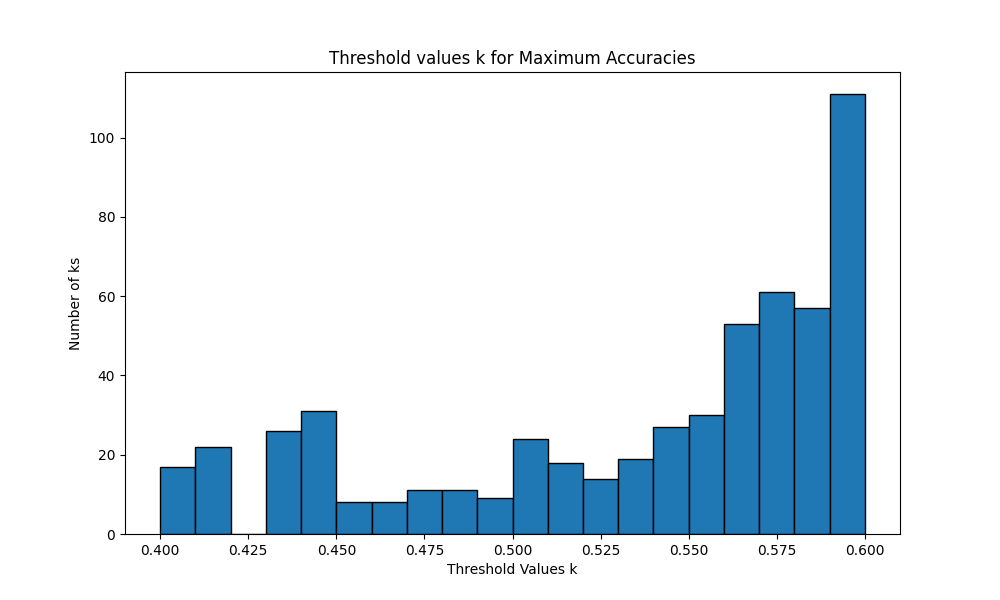
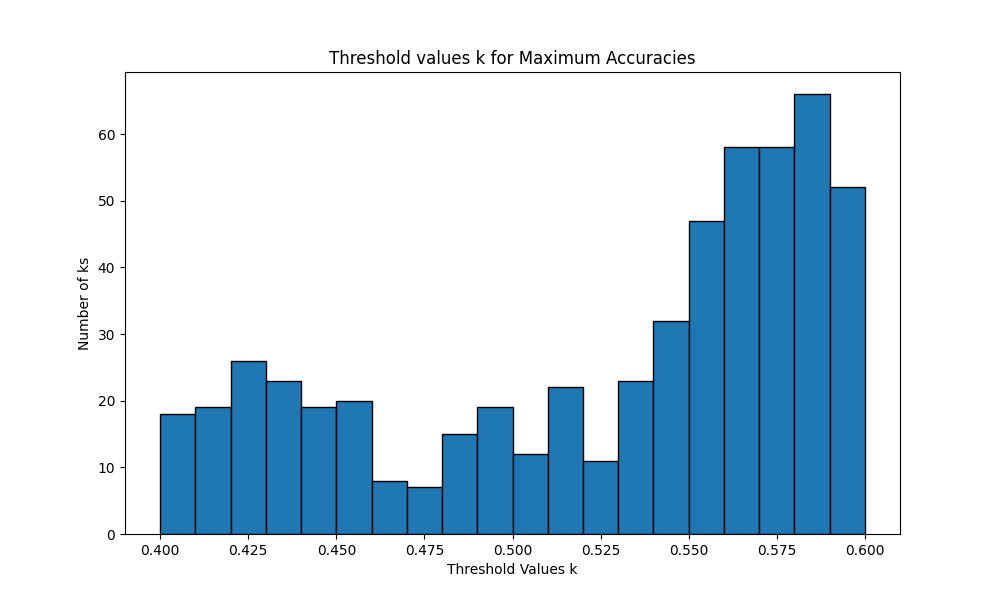
1

diff --git a/final_project/p3.py b/final_project/p3.py
@@ -39,7 +39,7 @@ max_accuracies = []
 optimal_ks = []
 optimal_k = 0.5
 max_accuracy = 0
-accuracies_for_k = {k: [] for k in np.linspace(0, 1, 101)}
+accuracies_for_k = {k: [] for k in np.linspace(0, 1, 100)}
 
 for _ in range(1000):
     X_train, X_test, y_train, y_test = train_test_split(X, y, test_size=0.2)
@@ -62,7 +62,7 @@ for _ in range(1000):
     optimal_k = 0.5
     max_accuracy = 0
 
-    for k in np.linspace(0, 1, 101):
+    for k in np.linspace(0, 1, 100):
         y_pred = (clf.predict_proba(X_test)[:,1] >= k).astype(int)
         accuracy = accuracy_score(y_test, y_pred)
         accuracies_for_k[k].append(accuracy)
@@ -128,7 +128,7 @@ plt.ylabel('Numbers of Maximum Accuracies')
 plt.title('Maximum Accuracies')
 plt.savefig('Maximum Accuracies.png')
 
-k_values = np.linspace(0.4, 0.6, 21)
+k_values = np.linspace(0.4, 0.6, 20)
 accuracies = np.zeros(len(k_values))
 
 for _ in range(1000):

diff --git a/final_project/p4.py b/final_project/p4.py
@@ -39,7 +39,7 @@ max_accuracies = []
 optimal_ks = []
 optimal_k = 0.5
 max_accuracy = 0
-accuracies_for_k = {k: [] for k in np.linspace(0, 1, 101)}
+accuracies_for_k = {k: [] for k in np.linspace(0, 1, 100)}
 
 for _ in range(1000):
     X_train, X_test, y_train, y_test = train_test_split(X, y, test_size=0.2)
@@ -62,7 +62,7 @@ for _ in range(1000):
     optimal_k = 0.5
     max_accuracy = 0
 
-    for k in np.linspace(0, 1, 101):
+    for k in np.linspace(0, 1, 100):
         y_pred = (clf.predict_proba(X_test)[:,1] >= k).astype(int)
         accuracy = accuracy_score(y_test, y_pred)
         accuracies_for_k[k].append(accuracy)
@@ -128,7 +128,7 @@ plt.ylabel('Numbers of Maximum Accuracies')
 plt.title('Maximum Accuracies')
 plt.savefig('Maximum Accuracies.png')
 
-k_values = np.linspace(0.4, 0.6, 21)
+k_values = np.linspace(0.4, 0.6, 20)
 accuracies = np.zeros(len(k_values))
 
 for _ in range(1000):

diff --git a/final_project/p5_1.py b/final_project/p5_1.py
@@ -39,7 +39,7 @@ max_accuracies = []
 optimal_ks = []
 optimal_k = 0.5
 max_accuracy = 0
-accuracies_for_k = {k: [] for k in np.linspace(0, 1, 101)}
+accuracies_for_k = {k: [] for k in np.linspace(0, 1, 100)}
 
 for _ in range(1000):
     X_train, X_test, y_train, y_test = train_test_split(X, y, test_size=0.2)
@@ -62,7 +62,7 @@ for _ in range(1000):
     optimal_k = 0.5
     max_accuracy = 0
 
-    for k in np.linspace(0, 1, 101):
+    for k in np.linspace(0, 1, 100):
         y_pred = (clf.predict_proba(X_test)[:,1] >= k).astype(int)
         accuracy = accuracy_score(y_test, y_pred)
         accuracies_for_k[k].append(accuracy)
@@ -128,7 +128,7 @@ plt.ylabel('Numbers of Maximum Accuracies')
 plt.title('Maximum Accuracies')
 plt.savefig('Maximum Accuracies.png')
 
-k_values = np.linspace(0.4, 0.6, 21)
+k_values = np.linspace(0.4, 0.6, 20)
 accuracies = np.zeros(len(k_values))
 
 for _ in range(1000):

diff --git a/final_project/p5_2.py b/final_project/p5_2.py
@@ -39,7 +39,7 @@ max_accuracies = []
 optimal_ks = []
 optimal_k = 0.5
 max_accuracy = 0
-accuracies_for_k = {k: [] for k in np.linspace(0, 1, 101)}
+accuracies_for_k = {k: [] for k in np.linspace(0, 1, 100)}
 
 for _ in range(1000):
     X_train, X_test, y_train, y_test = train_test_split(X, y, test_size=0.2)
@@ -62,7 +62,7 @@ for _ in range(1000):
     optimal_k = 0.5
     max_accuracy = 0
 
-    for k in np.linspace(0, 1, 101):
+    for k in np.linspace(0, 1, 100):
         y_pred = (clf.predict_proba(X_test)[:,1] >= k).astype(int)
         accuracy = accuracy_score(y_test, y_pred)
         accuracies_for_k[k].append(accuracy)
@@ -128,7 +128,7 @@ plt.ylabel('Numbers of Maximum Accuracies')
 plt.title('Maximum Accuracies')
 plt.savefig('Maximum Accuracies.png')
 
-k_values = np.linspace(0.4, 0.6, 21)
+k_values = np.linspace(0.4, 0.6, 20)
 accuracies = np.zeros(len(k_values))
 
 for _ in range(1000):
